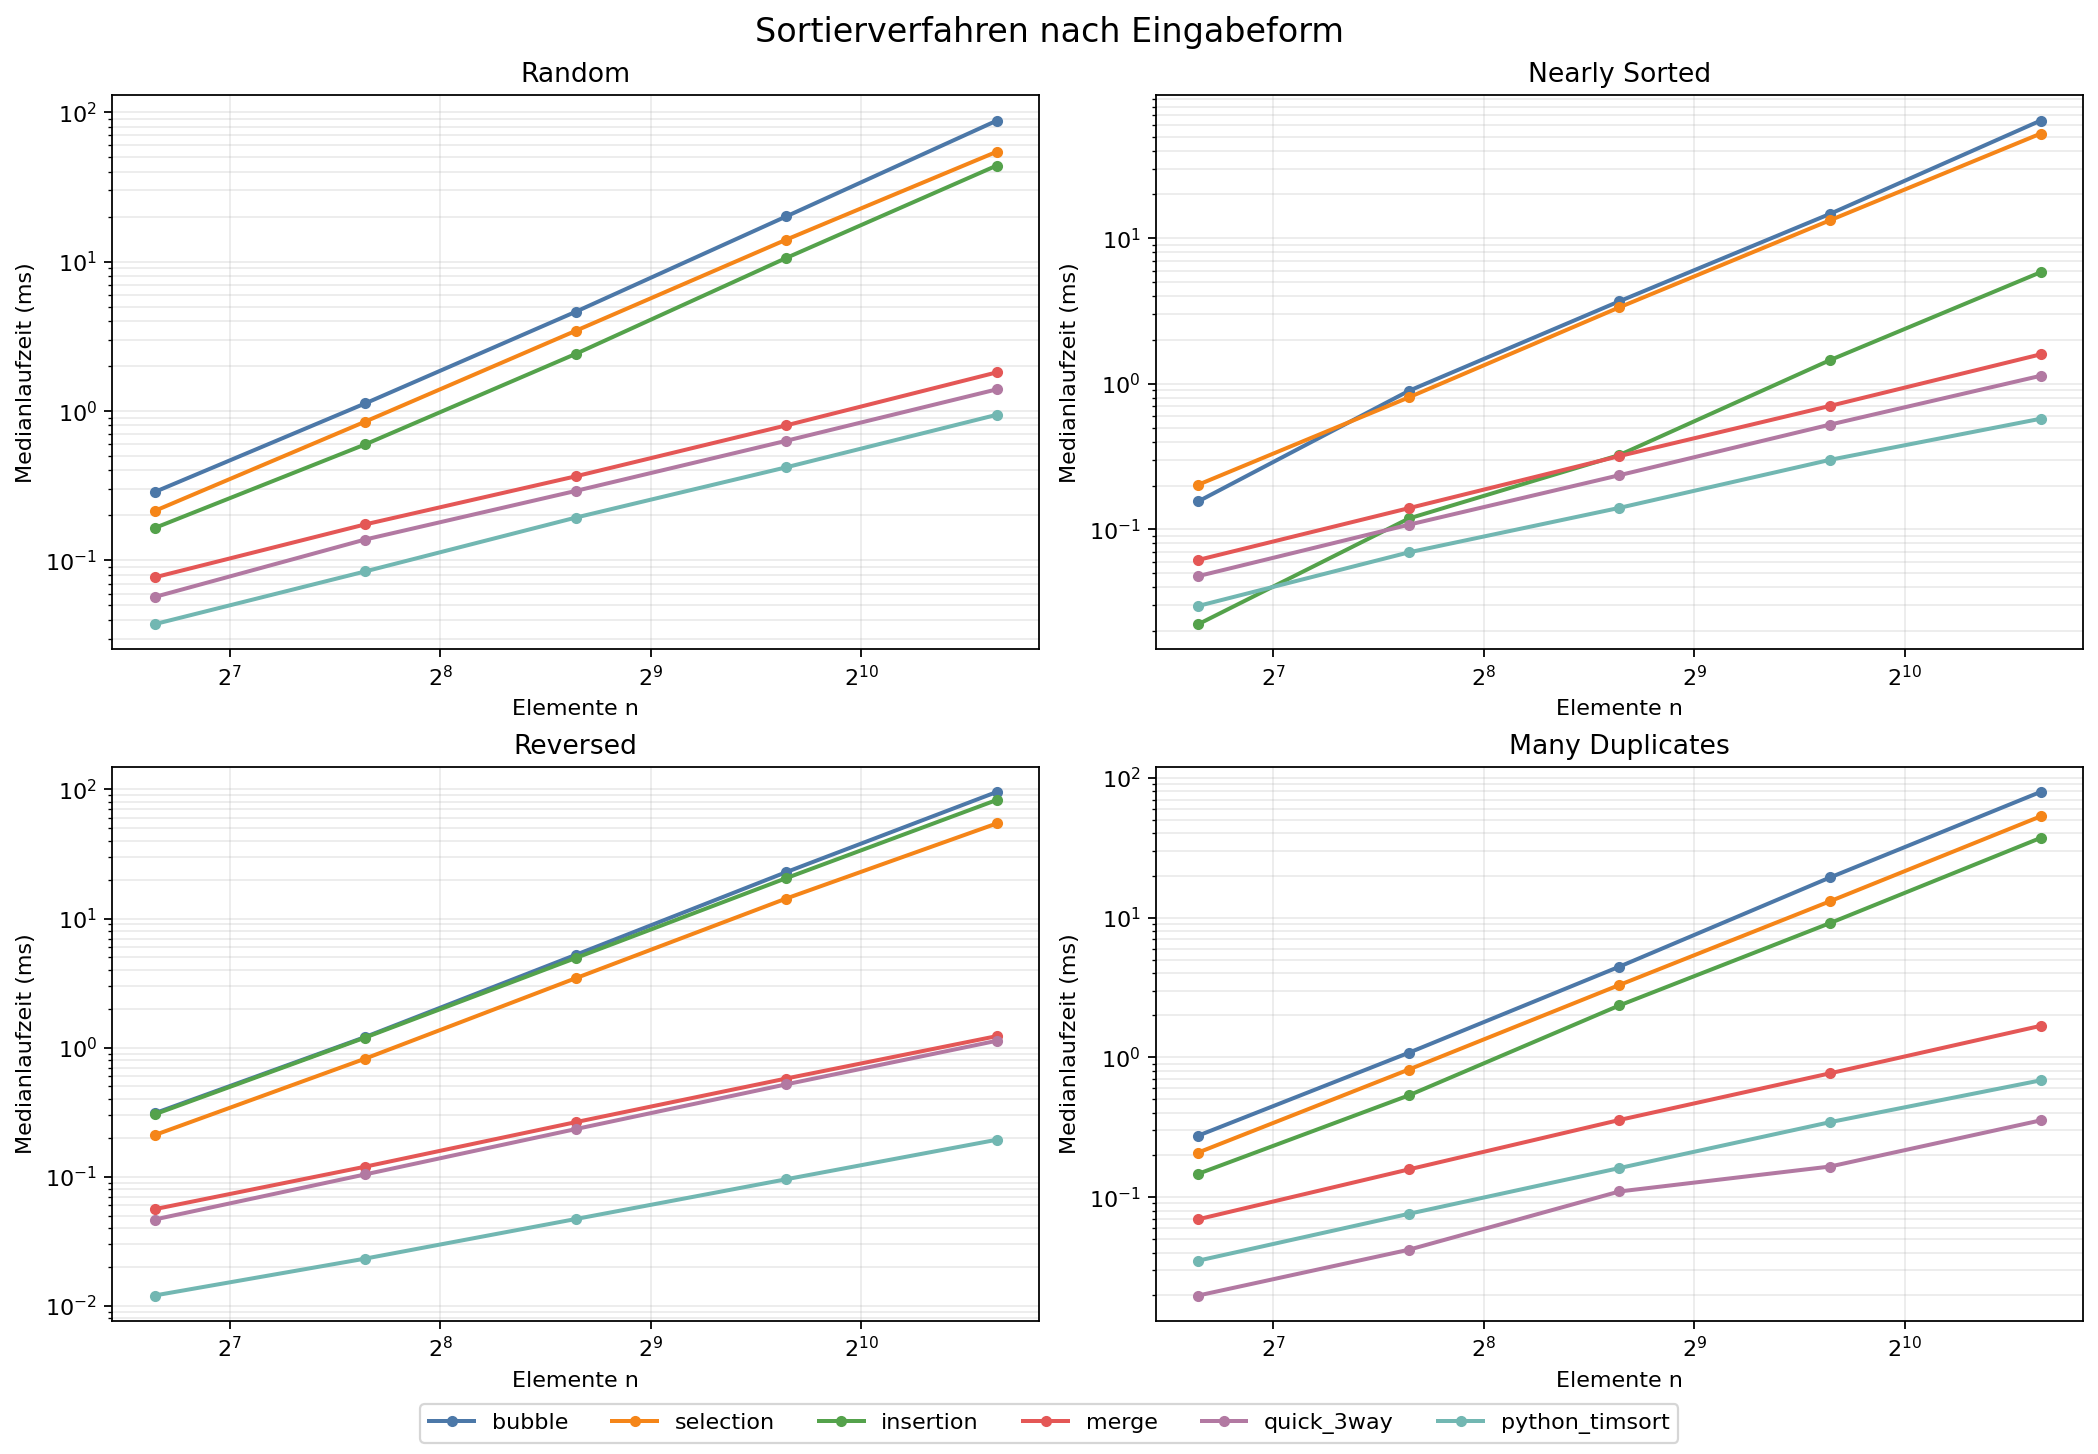
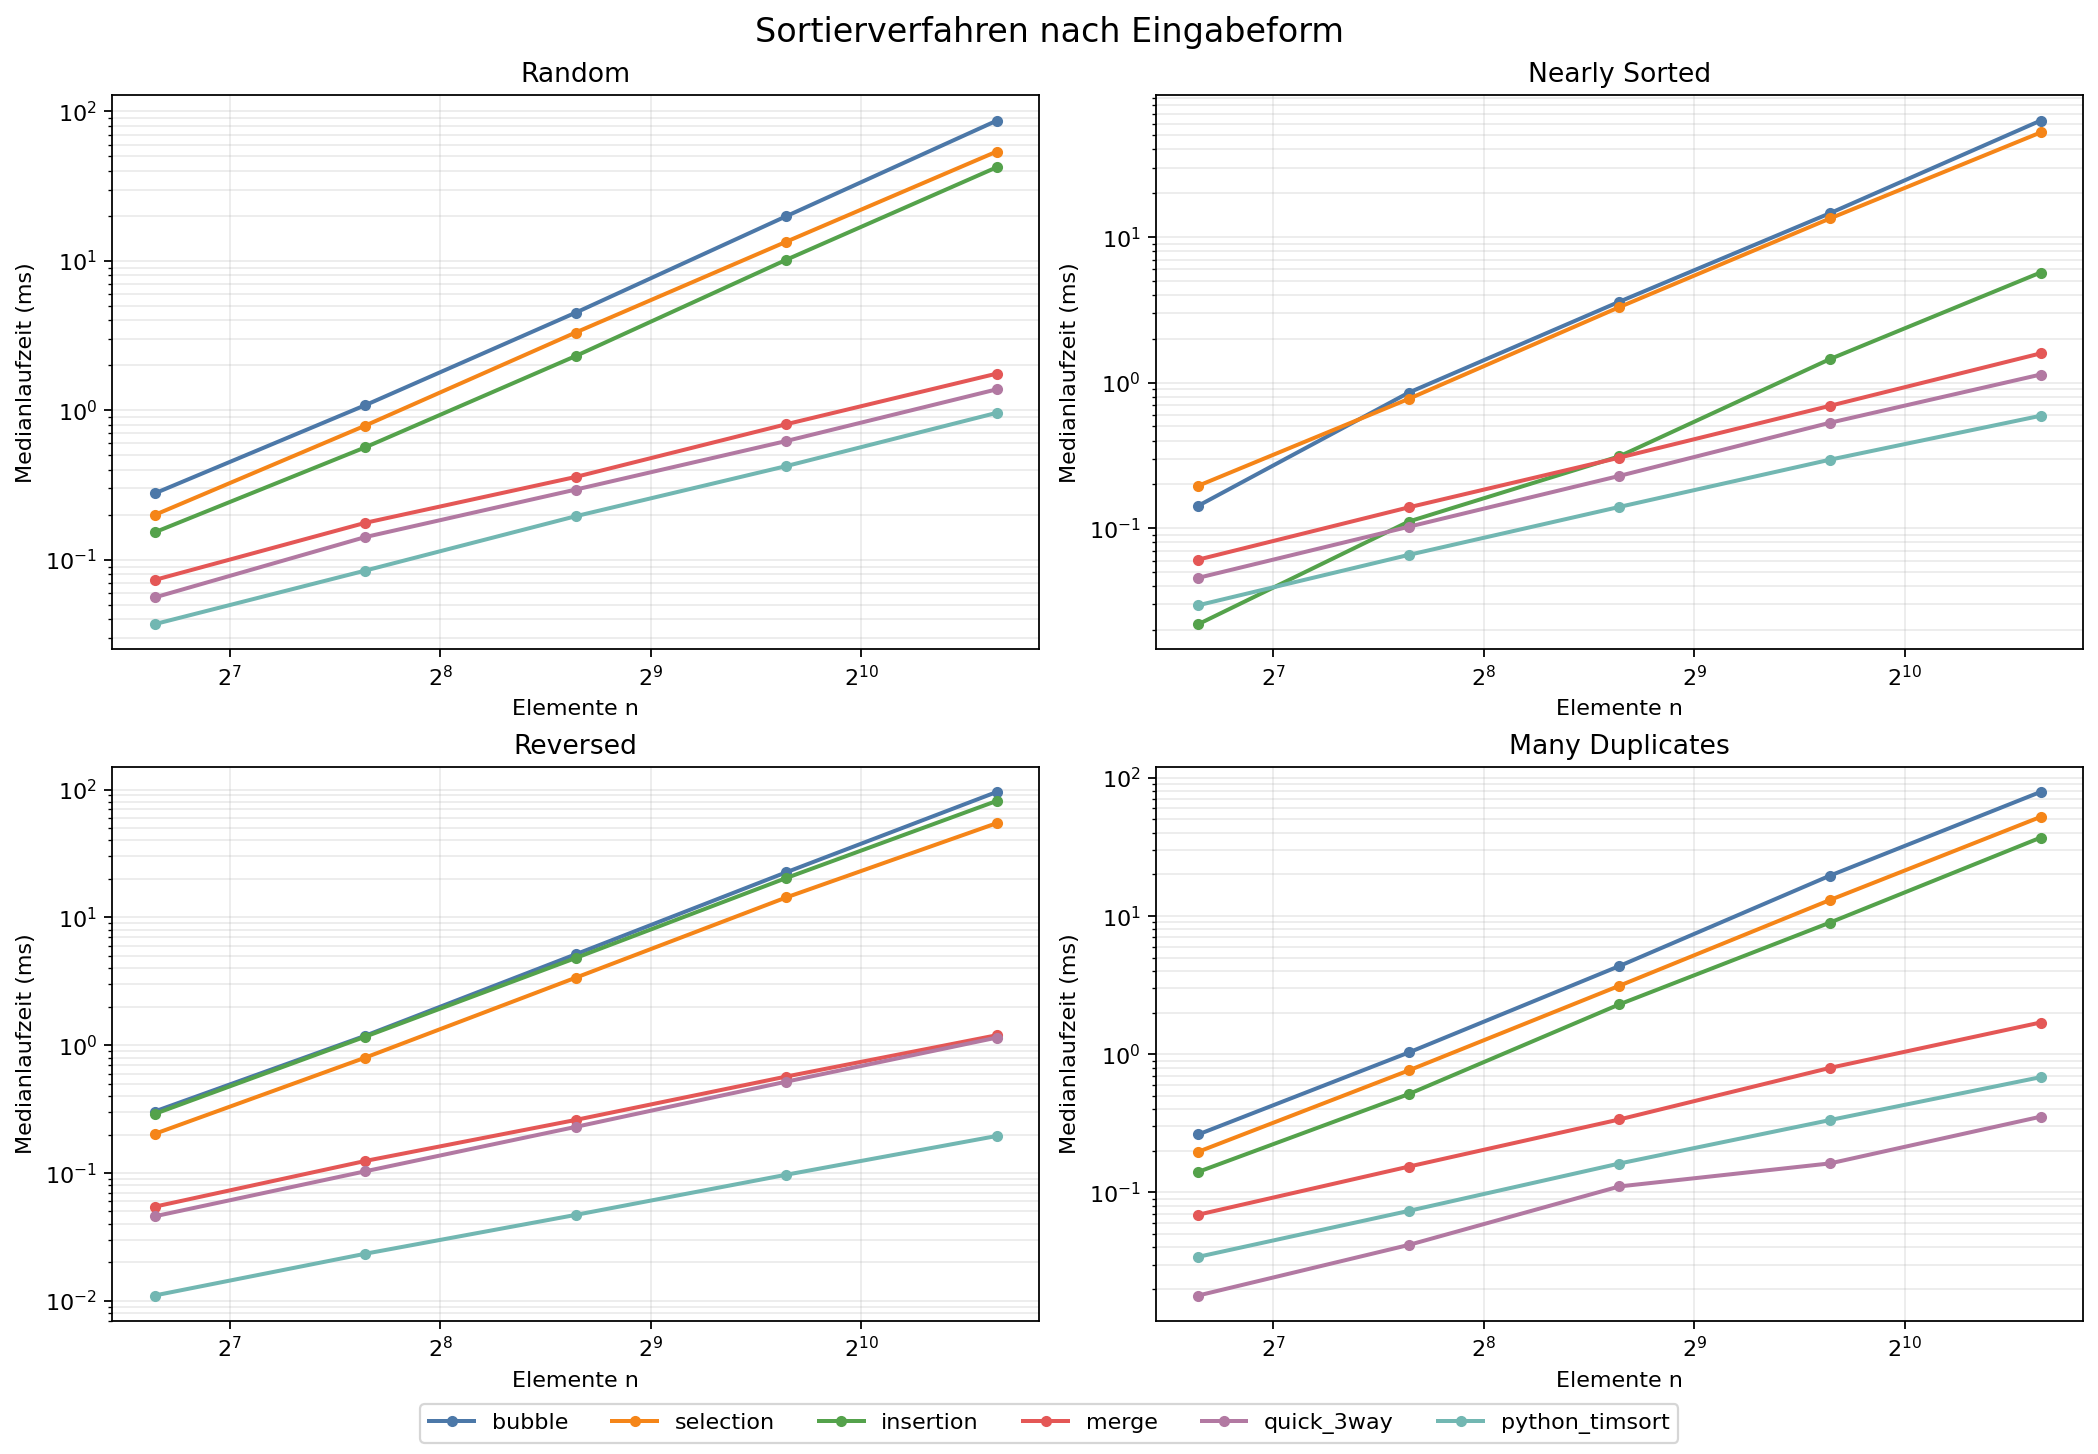
modul-07: test-durchlauf fertig

diff --git a/DSA-lab/PROGRESS.md b/DSA-lab/PROGRESS.md
@@ -7,7 +7,7 @@ Content-*Generierung* durch Claude Code, nicht den Lernfortschritt des Nutzers.
 
 ## NÄCHSTE AKTION
 
-> **Modul 07 (Sortieralgorithmen): vollständigen Test-Durchlauf ausführen.**
+> **Modul 08 (Binary Search & Suchvarianten): Theorie-Skript erstellen.**
 > Dazu ausschließlich den Abschnitt „Modul 07" sowie die Arbeitsanweisungen
 > aus `Moduluebersicht_DSA.md` lesen.
 
@@ -51,7 +51,7 @@ fünf Zellen `fertig` sind.
 | 04 | Linked Lists | fertig | fertig | fertig | fertig | fertig | Markdown, Python-Skripte, CSV | FERTIG: 131/131 Tests; alle 9 Python-Dateien, Demos und vollständige Cache-Simulation am 2026-07-17 erfolgreich |
 | 05 | Stacks & Queues | fertig | fertig | fertig | fertig | fertig | Markdown, Python-Skripte, CSV, PNG | FERTIG: 112/112 Tests; alle 11 Python-Dateien, Demos, Generator und vollständige 250-Job-Simulation am 2026-07-19 erfolgreich |
 | 06 | Hashing & Hash Maps | fertig | fertig | fertig | fertig | fertig | Markdown, Python-Skripte, CSV | FERTIG: 113/113 Tests; alle 13 Python-Dateien, 12 Theorieblöcke, Demos, Benchmarks, Generator und vollständige 4.000-Zeilen-Log-Pipeline am 2026-07-19 erfolgreich |
-| 07 | Sortieralgorithmen | fertig | fertig | fertig | fertig | offen | Markdown, Python-Skripte, CSV, PNG | Drei Projekte fertig: instrumentierte Sortierverfahren, Benchmark und stabile externe CSV-Sortierung mit 20 Runs und zwei Merge-Pässen; 73 + 55 + 37 Tests erfolgreich |
+| 07 | Sortieralgorithmen | fertig | fertig | fertig | fertig | fertig | Markdown, Python-Skripte, CSV, PNG | FERTIG: 165/165 Tests; alle 12 Python-Dateien, 15 Theorieblöcke, Demo, vollständiger 120-Punkt-Benchmark und externe 5.000-Zeilen-Sortierung am 2026-07-19 erfolgreich |
 | 08 | Binary Search & Suchvarianten | offen | offen | offen | offen | offen | — | — |
 | 09 | Two Pointers & Sliding Window | offen | offen | offen | offen | offen | — | — |
 | 10 | Bäume & Binary Search Trees | offen | offen | offen | offen | offen | — | — |
@@ -113,3 +113,4 @@ Kurz halten — dieses Log ist Gedächtnisstütze, kein Bericht.)*
 | 2026-07-19 | Modul 07: 01-basic | Bubble, Selection, Insertion, Merge und Quick Sort mit Metriken, Traces und Seed-basierten Property-Tests; 73 Tests erfolgreich. |
 | 2026-07-19 | Modul 07: 02-medium | Systematischer Benchmark von sechs Verfahren über vier Eingabeformen und fünf Größen mit CSV, Vier-Panel-Plot und Theoriebericht; 55 Tests erfolgreich. |
 | 2026-07-19 | Modul 07: 03-final | Stabile externe CSV-Sortierung unter künstlicher 250-Zeilen-Speichergrenze mit 20 Runs, begrenztem k-Way-Merge, Integritätsprüfung und Laufbericht; 37 Tests erfolgreich. |
+| 2026-07-19 | Modul 07: Test-Durchlauf | 165/165 Tests; alle 12 Python-Dateien, 15 Theorieblöcke, Demo, vollständiger Benchmark und externe Sortierpipeline erfolgreich. |

diff --git a/DSA-lab/modules/07-sortieralgorithmen/projects/02-medium/output/REPORT.md b/DSA-lab/modules/07-sortieralgorithmen/projects/02-medium/output/REPORT.md
@@ -6,9 +6,9 @@ aus den im CSV dokumentierten Wiederholungen.
 
 | Eingabe | schnellste gemessene Variante | Median ms | Insertion-Vergleiche | Selection-Vergleiche |
 |---|---|---:|---:|---:|
-| random | python_timsort | 0.943 | 645017 | 1279200 |
-| nearly_sorted | python_timsort | 0.575 | 84317 | 1279200 |
-| reversed | python_timsort | 0.193 | 1279200 | 1279200 |
+| random | python_timsort | 0.962 | 645017 | 1279200 |
+| nearly_sorted | python_timsort | 0.592 | 84317 | 1279200 |
+| reversed | python_timsort | 0.195 | 1279200 | 1279200 |
 | many_duplicates | quick_3way | 0.353 | 560015 | 1279200 |
 
 ## Interpretation gegen die Theorie
